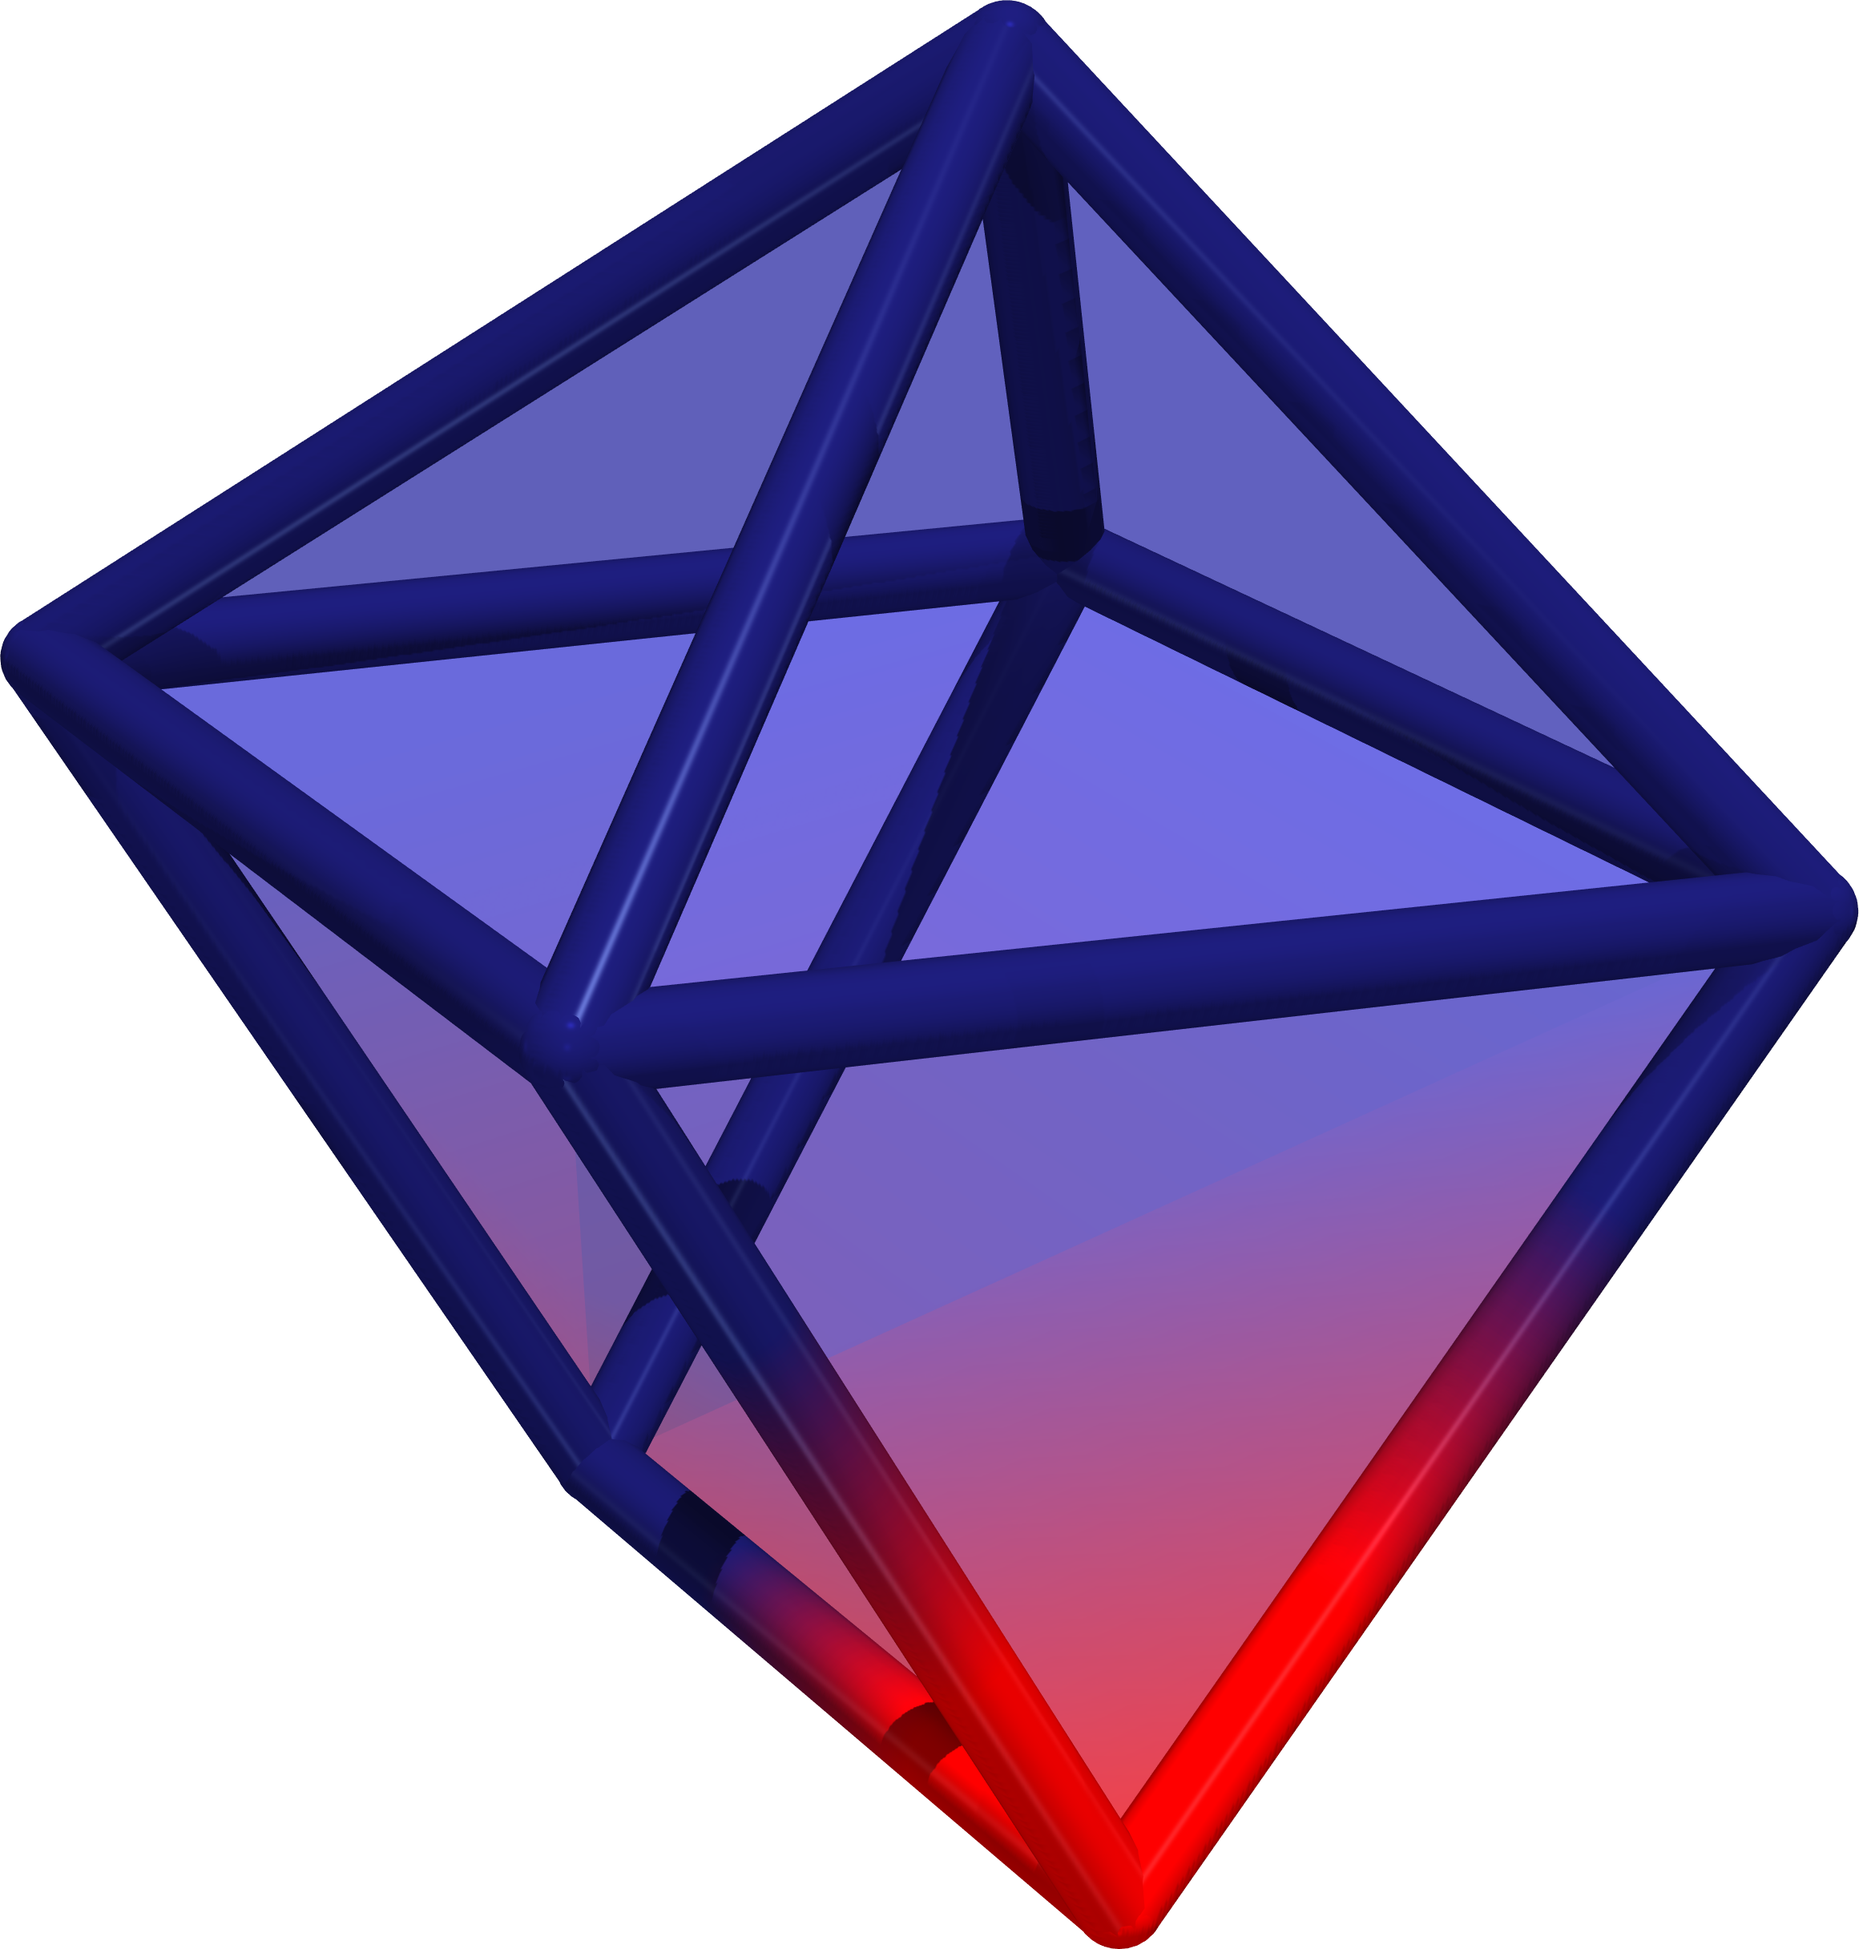
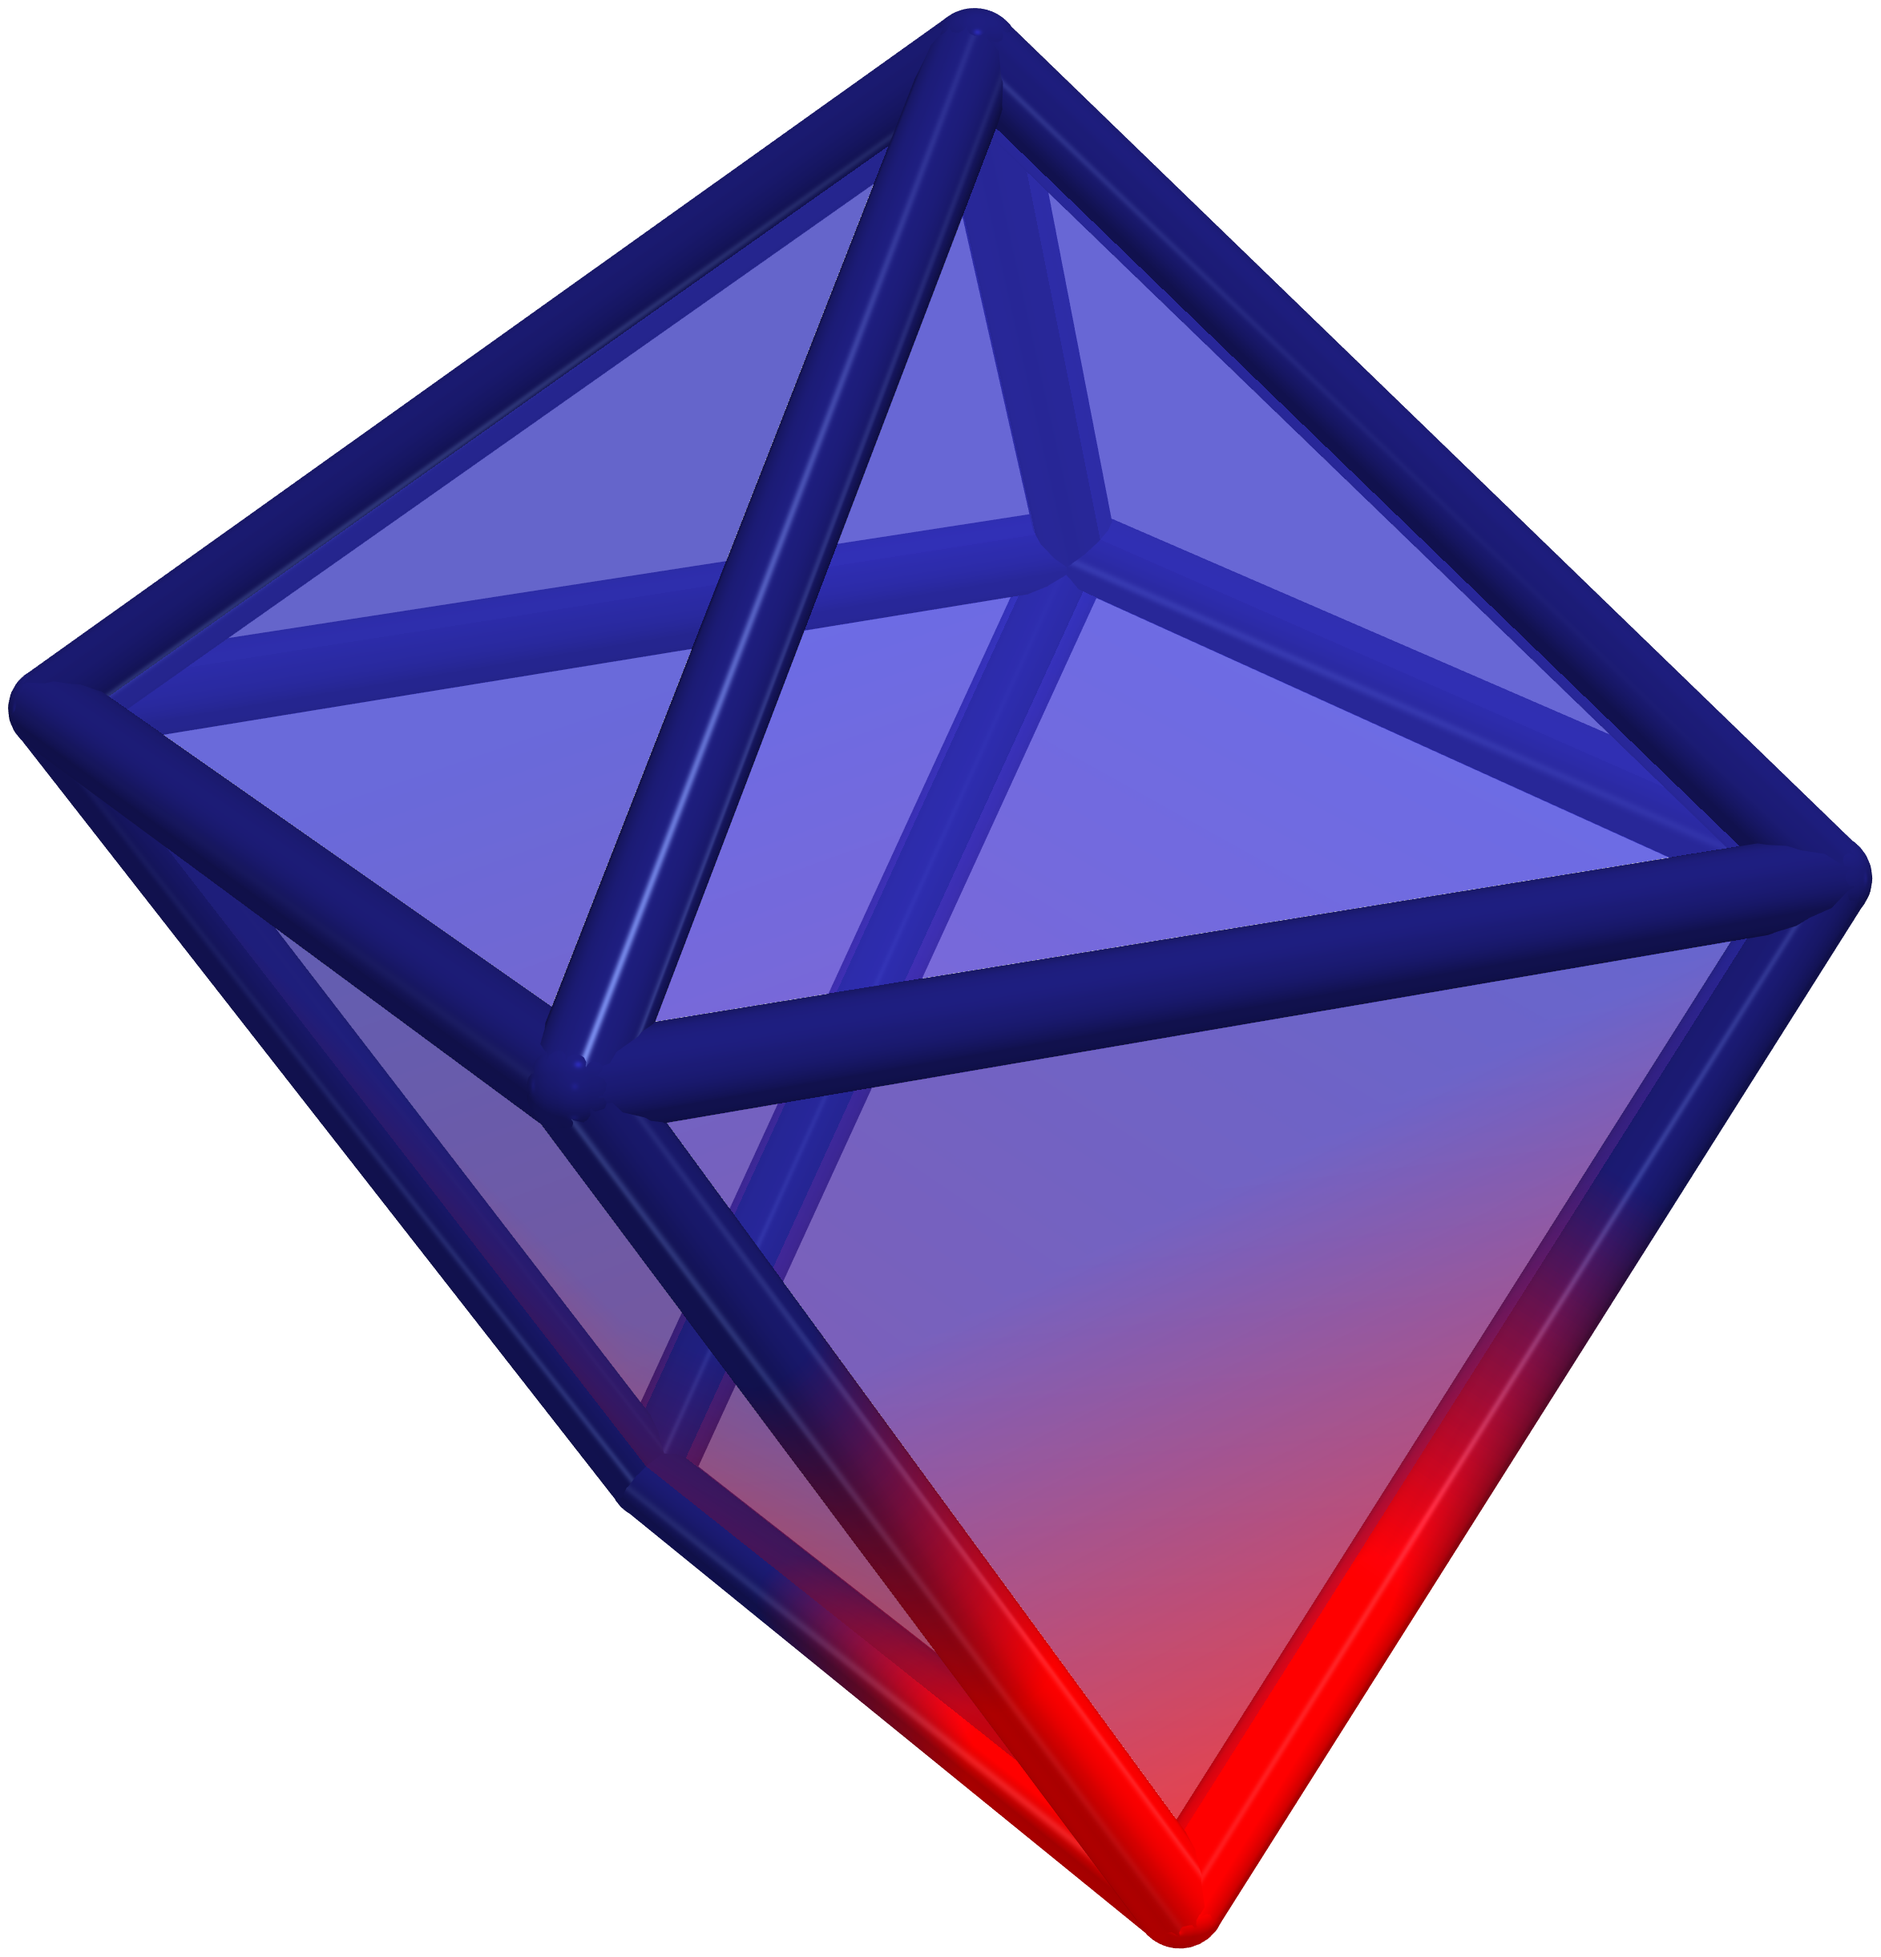
Updated examples and visualization so that you can create bonds to a single point as well

diff --git a/solvis/visualization.py b/solvis/visualization.py
@@ -11,7 +11,7 @@ import pyvista as pv
 import matplotlib.pyplot as plt
 from pyvista.plotting.opts import ElementType
 
-from .util import create_two_color_gradient, distance_projected, merge_options
+from .util import create_two_color_gradient, distance_projected, merge_options, create_asymmetric_two_color_gradient
 
 class AtomicPlotter:
     """Plots atoms, bonds and convex hulls using PyVista
@@ -73,7 +73,7 @@ class AtomicPlotter:
 
         self.plotter.add_mesh(hull, **mesh_options)
 
-    def add_bond(self,pointa, pointb, a_color:str, b_color:str, actor_name:str, radius=0.1, resolution=1, bond_gradient_start=0.0, **mesh_options_override_default):
+    def add_bond(self,pointa, pointb, a_color:str, b_color:str, actor_name:str, radius=0.1, resolution=1, bond_gradient_start=0.0, asymmetric_gradient_start=None,**mesh_options_override_default):
         """ 
         Plot a bond between two points (say A and B), each of which is a numPy array with the x,y,z coordinates
 
@@ -85,6 +85,7 @@ class AtomicPlotter:
         radius: Radius of the tube created for the bond (Default 0.1)
         resolution: Resolution of the tube created for the bond (Default 1), see PolyVista tube for more details
         bond_gradient_start: (Default 0.0) Where the mixing of the two colors will start.
+        asymmetric_gradient_start: If this is set, then the colormap is not split equally between two colors. Should be in between 0 and 1 
         mesh_options_override_default: Arguments in the PyVista add_mesh function,
         that will override the default atom_bond_mesh_options. """
 
@@ -96,7 +97,11 @@ class AtomicPlotter:
             mesh_options.update({"pickable":True})
 
         # Create the colormap to be used for bond colouring
-        m_cmap = create_two_color_gradient(a_color, b_color, bond_gradient_start)
+        if asymmetric_gradient_start is None:
+            # Symmetric gradient 
+            m_cmap = create_two_color_gradient(a_color, b_color, bond_gradient_start)
+        else:
+            m_cmap = create_asymmetric_two_color_gradient(a_color, b_color, asymmetric_gradient_start)
 
         # Each tube is between the two input points 
         tube = pv.Tube(pointa=pointa, pointb=pointb, resolution=resolution, radius=radius, n_sides=15)
@@ -176,7 +181,7 @@ class AtomicPlotter:
             )
 
     def create_bonds_from_edges(self, pointset, edges, point_colors=None, single_bond_colors=None, 
-        radius=0.1, resolution=1,bond_gradient_start=0.0,**mesh_options_override_default):
+        radius=0.1, resolution=1,bond_gradient_start=0.0,asymmetric_gradient_start=None, **mesh_options_override_default):
         """ 
         Create bonds from a list of bonds, using 
 
@@ -187,6 +192,7 @@ class AtomicPlotter:
         radius: Radius of the tube created for the bond (Default 0.1)
         resolution: Resolution of the tube created for the bond (Default 1), see PolyVista tube for more details
         bond_gradient_start: (Default 0.0) Where the mixing of the two colors will start.
+        asymmetric_gradient_start: If you want an asymmetric bond gradient 
         mesh_options_override_default: Arguments in the PyVista add_mesh function,
         that will override the default atom_bond_mesh_options."""
 
@@ -208,7 +214,44 @@ class AtomicPlotter:
                 colora = point_colors[a_index] 
                 colorb = point_colors[b_index]
             # Create the bond
-            self.add_bond(pointa, pointb, colora, colorb, actor_name, radius, resolution,bond_gradient_start, **mesh_options_override_default)
+            self.add_bond(pointa, pointb, colora, colorb, actor_name, radius, resolution,
+                bond_gradient_start, asymmetric_gradient_start, **mesh_options_override_default)
+
+    def create_bonds_to_point(self, pointset, central_point, point_colors=None, central_point_color=None,single_bond_colors=None, 
+        radius=0.1, resolution=1,bond_gradient_start=0.0,asymmetric_gradient_start=None, **mesh_options_override_default):
+        """ 
+        Create bonds from of each point in a list of points, to a particular point 
+
+        pointset: ndarray of coordinates every point inside pointset,to be bonded to a given point (called central_point here)
+        central_point: Point to be bonded to
+        point_colors: list of colors corresponding to the color of each point inside pointset
+        central_point_color : You must set this to some color if using point_colors 
+        single_bond_colors: Colors corresponding to all bonds. If you set this, point_colors will be ignored 
+        radius: Radius of the tube created for the bond (Default 0.1)
+        resolution: Resolution of the tube created for the bond (Default 1), see PolyVista tube for more details
+        bond_gradient_start: (Default 0.0) Where the mixing of the two colors will start.
+        asymmetric_gradient_start: If you want an asymmetric bond gradient 
+        mesh_options_override_default: Arguments in the PyVista add_mesh function,
+        that will override the default atom_bond_mesh_options."""
+
+        if single_bond_colors is not None:
+            set_single_color = True
+        else:
+            set_single_color = False
+            if central_point_color is None:
+                central_point_color="black"
+
+        for idx, point in enumerate(pointset):
+            actor_name = "tube"+str(idx)
+            if set_single_color:
+                colora = single_bond_colors[idx]
+                colorb = colora
+            else:
+                colora = central_point_color
+                colorb = point_colors[idx]
+            # Create the bond
+            self.add_bond(central_point, point, colora, colorb, actor_name, radius, resolution,
+                bond_gradient_start, asymmetric_gradient_start, **mesh_options_override_default)
 
     def interactive_window(self, delete_actor=True):
         if not self.interactive_mode:

diff --git a/examples/render_solvation_center/render_solvation_center.py b/examples/render_solvation_center/render_solvation_center.py
@@ -24,7 +24,7 @@ trimmed_img_name = "trimmed.png"
 
 # Bond and atom appearance 
 # Decide what kind of gradient shading you want for bonds 
-bond_gradient_start = 0.0
+set_gradient = 0.5 # Asymmetric bond gradient , not used here 
 bond_radius = 0.15
 atom_radius = 0.2
 fe_center_radius = 0.3
@@ -75,46 +75,41 @@ print('The calculated sphericity with 6 neighbours is', sph_value, '\n')
 faces_pyvistaformat = np.column_stack((3*np.ones((len(hull.simplices), 1), dtype=int), hull.simplices)).flatten()
 polyhull = PolyData(k_near_pos, faces_pyvistaformat)
 
-edges = []
-
-# Get the bonds between the central atom (index 0) and the remaining solvent atoms
-for i in range(len(solvent_pos)):
-    edges.append([0,i+1])
-
-edges = np.array(edges)
-
 # ------------------------------------------------------------
 
 hull_color = "#c7c7c7"
-point_colours = ["black","midnightblue", "midnightblue", "midnightblue", "midnightblue", "midnightblue", "midnightblue", "red"]
-bond_colours = point_colours[1:]
+solvent_point_colours = ["midnightblue", "midnightblue", "midnightblue", "midnightblue", "midnightblue", "midnightblue", "red"]
+central_point_colour = "black"
 
 # For interactive plotting 
-pl_inter = AtomicPlotter(interactive_mode=True, depth_peeling=True, shadows=True)
+pl_inter = AtomicPlotter(interactive_mode=True, depth_peeling=True, shadows=False)
 # Add the hull as a mesh 
-pl_inter.add_hull(polyhull,color=hull_color, show_edges=True, line_width=4, lighting=True, opacity=0.9)
+pl_inter.add_hull(polyhull,color=hull_color, show_edges=True, line_width=5, lighting=True, opacity=0.5)
 # Create the bonds corresponding to the edges and add them to the plotter
-pl_inter.create_bonds_from_edges(all_pos, edges, single_bond_colors=bond_colours,
-    radius=bond_radius, resolution=1,bond_gradient_start=bond_gradient_start)
-pl_inter.add_atoms_as_spheres(all_pos[1:], point_colours[1:], radius=atom_radius)
+# pl_inter.create_bonds_to_point(solvent_pos, fe_pos_query_pnt, point_colors=solvent_point_colours, central_point_color=central_point_colour,
+#     radius=bond_radius, resolution=1,asymmetric_gradient_start=set_gradient)
+# If you want single color bonds 
+pl_inter.create_bonds_to_point(solvent_pos, fe_pos_query_pnt, single_bond_colors=solvent_point_colours,
+    radius=bond_radius, resolution=1)
+pl_inter.add_atoms_as_spheres(solvent_pos, solvent_point_colours, radius=atom_radius)
 # Add the Fe solvation center as a sphere with a different size 
-pl_inter.add_single_atom_as_sphere(all_pos[0], point_colours[0], radius=fe_center_radius)
+pl_inter.add_single_atom_as_sphere(fe_pos_query_pnt, central_point_colour, radius=fe_center_radius, actor_name="center")
 # Open the interactive window 
 pl_inter.interactive_window(delete_actor=True) 
 
 # ---------------------------
 # Now render the image (offscreen=True)
 
-pl_render = AtomicPlotter(interactive_mode=False, window_size=[4000,4000], depth_peeling=True, shadows=True)
+pl_render = AtomicPlotter(interactive_mode=False, window_size=[4000,4000], depth_peeling=True, shadows=False)
 # Add the hull as a mesh 
-pl_render.add_hull(polyhull, color=hull_color, show_edges=True, line_width=4, lighting=True, opacity=0.9)
+pl_render.add_hull(polyhull,color=hull_color, show_edges=True, line_width=5, lighting=True, opacity=0.5)
 # Create the bonds corresponding to the edges and add them to the plotter
-pl_render.create_bonds_from_edges(all_pos, edges, single_bond_colors=bond_colours,
-    radius=bond_radius, resolution=1,bond_gradient_start=bond_gradient_start)
+pl_render.create_bonds_to_point(solvent_pos, fe_pos_query_pnt, single_bond_colors=solvent_point_colours,
+    radius=bond_radius, resolution=1)
 # Add the solvent atoms as spheres
-pl_render.add_atoms_as_spheres(all_pos[1:], point_colours[1:], radius=atom_radius)
+pl_render.add_atoms_as_spheres(solvent_pos, solvent_point_colours, radius=atom_radius)
 # Add the Fe solvation center as a sphere with a different size 
-pl_render.add_single_atom_as_sphere(all_pos[0], point_colours[0], radius=fe_center_radius)
+pl_render.add_single_atom_as_sphere(fe_pos_query_pnt, central_point_colour, radius=fe_center_radius, actor_name="center")
 # Get and set the camera position found from the last frame in the interactive mode
 inter_cpos = pl_inter.interactive_camera_position[-1]
 print("Camera position will be set to ", inter_cpos)

diff --git a/solvis/util.py b/solvis/util.py
@@ -102,6 +102,36 @@ def create_two_color_gradient(color1:str, color2:str, gradient_start=0.0):
 
     return m_cmap
 
+def create_asymmetric_two_color_gradient(color1:str, color2:str, gradient_start=0.1):
+    """
+    Create and return a matplotlib color gradient, given two colours (the same colour)
+    is fine too. 
+
+    Parameters:
+    - color1: Any valid matplotlib color
+    - color2: The second matplotlib color the gradient goes up to 
+    - gradient_start: Where the mixing of the two colors will start. By default, this is 0.1
+    Valid input are numbers from 0 to 1.0, not included
+
+    Returns:
+    - colormap: Matplotlib colormap.
+
+    """
+    if gradient_start==0.0:
+        colors = [color1, color2]
+        m_cmap = LinearSegmentedColormap.from_list("mycmap", colors)
+    elif gradient_start>0.0 and gradient_start<1.0:
+        nodes = [0.0, gradient_start, 1.0]
+        colors = [color1, color2, color2]
+        m_cmap = LinearSegmentedColormap.from_list("mycmap", list(zip(nodes,colors)))
+    else:
+        # Print warning
+        print("You entered an invalid value of gradient_start= ", gradient_start,"for creating an asymmetric two-color gradient\n Reverting to smooth gradient.\n")
+        colors = [color1, color2]
+        m_cmap = LinearSegmentedColormap.from_list("mycmap", colors)
+
+    return m_cmap
+
 # Trim an image with some tolerance 
 def trim(imagefilename, border_pixels=0):
     im = Image.open(imagefilename)

diff --git a/examples/render_capped_trigonal_prism/calc_sph.py b/examples/render_capped_trigonal_prism/calc_sph.py
@@ -81,6 +81,7 @@ edges = np.array(list(edges))
 mesh_cmap = solvis.util.create_two_color_gradient("#3737d2", "red", gradient_start=0.0) # blue to red gradient
 
 # For interactive plotting 
+# NOTE: Shadows and opacity won't work together without pbr 
 pl_inter = AtomicPlotter(interactive_mode=True, depth_peeling=True, shadows=True)
 # Add the hull as a mesh 
 pl_inter.add_hull(polyhull,cmap=mesh_cmap,clim=[dist[4],dist[-1]],scalars=dist)
